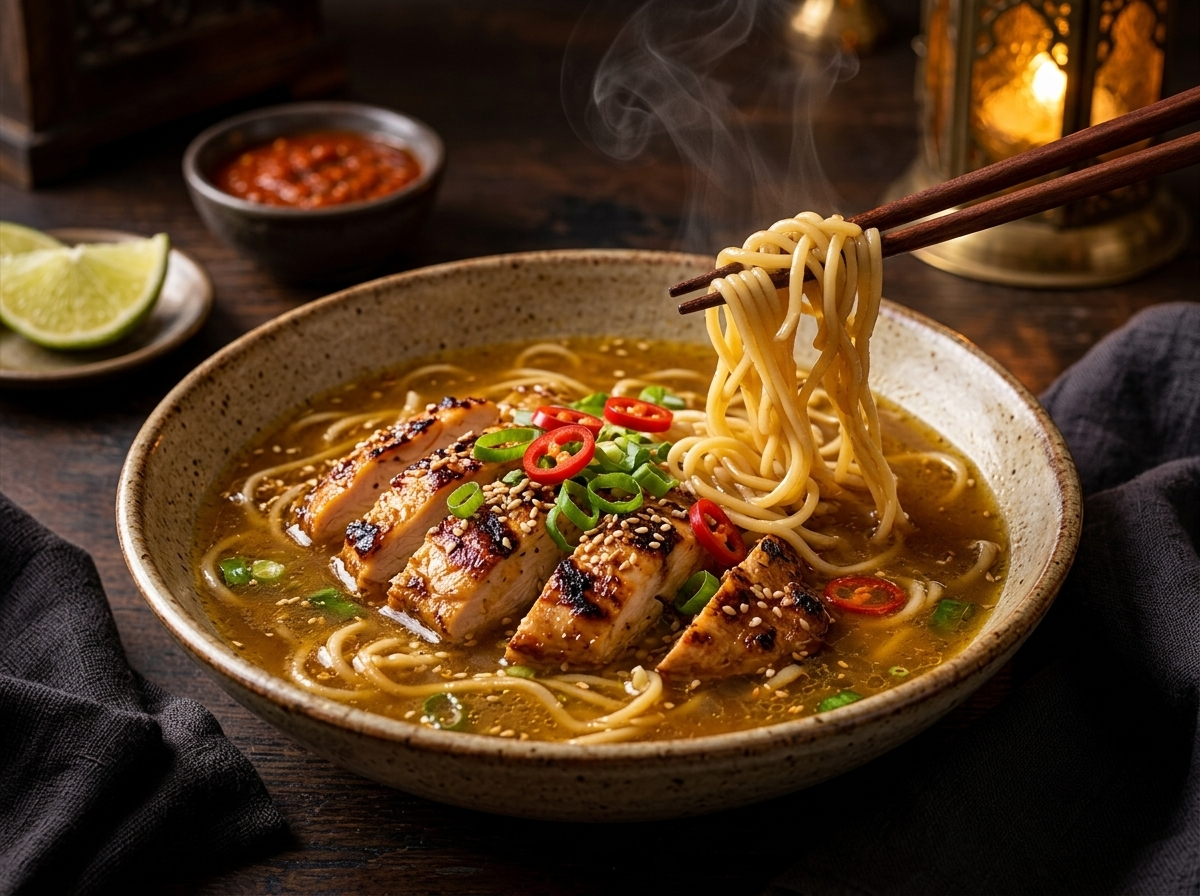
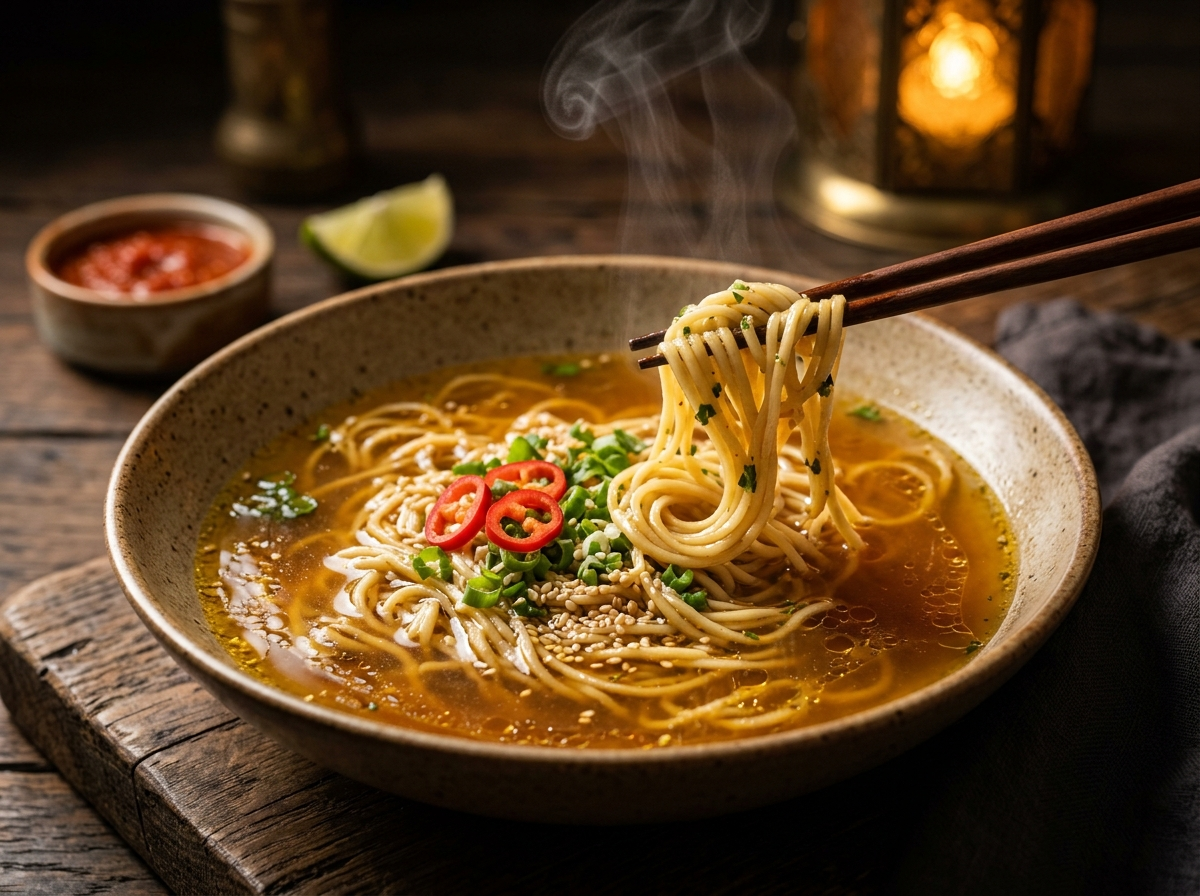
feat: update Mashwi Noodles Soup photo and copy to strictly show no visible chicken meat

diff --git a/index.html b/index.html
@@ -186,21 +186,21 @@
                         <div class="menu-grid-card" style="max-width: 440px; width: 100%;">
                             <div class="card-img-wrapper" style="position: relative; overflow: hidden; height: 260px;">
                                 <span class="item-badge bestseller" style="background: #d9480f;"><i class="ri-fire-line"></i> Winter Bestseller • Special</span>
-                                <img src="assets/images/menu/chicken_mashwi_noodles_soup.jpg?v=4" alt="Mashwi Noodles Soup" class="menu-item-img" loading="lazy" decoding="async">
+                                <img src="assets/images/menu/chicken_mashwi_noodles_soup.jpg?v=5" alt="Mashwi Noodles Soup" class="menu-item-img" loading="lazy" decoding="async">
                             </div>
                             <div class="card-body">
                                 <h4>Mashwi Noodles Soup</h4>
-                                <p>Savor the rich, smoky goodness of Mashwi chicken and noodles in our hearty signature broth! Loaded with tender slow flame roasted chicken cuts, noodles, chili rings and fresh spring onions.</p>
+                                <p>Savor the rich, smoky goodness of signature Mashwi broth and tender noodles! Piping hot soup infused with aromatic spices, red chili rings, and fresh spring onions.</p>
                                 <div class="card-tags">
                                     <span class="mini-tag">Signature Broth</span>
-                                    <span class="mini-tag">Mashwi Chicken Cuts</span>
                                     <span class="mini-tag">Tender Noodles</span>
+                                    <span class="mini-tag">Smoky Flavor</span>
                                 </div>
                             </div>
                             <div class="price-row justify-center">
                                 <span class="price">Rs. 250</span>
                                 <div class="card-action-btns">
-                                    <button type="button" class="customize-btn" data-name="Mashwi Noodles Soup" data-price="250" data-img="assets/images/menu/chicken_mashwi_noodles_soup.jpg?v=4" data-desc="Savor the rich, smoky goodness of Mashwi chicken and noodles in our hearty signature broth!"><i class="ri-equalizer-line"></i> Add-ons</button>
+                                    <button type="button" class="customize-btn" data-name="Mashwi Noodles Soup" data-price="250" data-img="assets/images/menu/chicken_mashwi_noodles_soup.jpg?v=5" data-desc="Savor the rich, smoky goodness of signature Mashwi broth and tender noodles!"><i class="ri-equalizer-line"></i> Add-ons</button>
                                     <button type="button" class="add-to-cart-btn" data-name="Mashwi Noodles Soup" data-price="250"><i class="ri-add-line"></i> Add</button>
                                 </div>
                             </div>
@@ -1300,16 +1300,16 @@
             
             <div class="welcome-modal-banner" style="height: 240px; background: #201e1b; display: flex; align-items: center; justify-content: center; overflow: hidden;">
                 <span class="welcome-badge-pill"><i class="ri-fire-fill"></i> Winter Special • Rs. 250 ❄</span>
-                <img src="assets/images/menu/chicken_mashwi_noodles_soup.jpg?v=4" alt="Mashwi Noodles Soup" class="welcome-modal-hero-img" style="width: 100%; height: 100%; object-fit: cover;" loading="eager" decoding="async">
+                <img src="assets/images/menu/chicken_mashwi_noodles_soup.jpg?v=5" alt="Mashwi Noodles Soup" class="welcome-modal-hero-img" style="width: 100%; height: 100%; object-fit: cover;" loading="eager" decoding="async">
             </div>
 
             <div class="welcome-modal-body">
                 <h3 id="welcome-modal-title">Mashwi Noodles Soup • Rs. 250 🍲</h3>
-                <p>Savor the rich, smoky goodness of Mashwi chicken and noodles in our hearty signature broth! Barkat Market mein visit karein ya foran WhatsApp par order karein.</p>
+                <p>Savor the rich, smoky goodness of signature Mashwi broth and tender noodles in our hearty winter soup! Barkat Market mein visit karein ya foran WhatsApp par order karein.</p>
                 
                 <div class="welcome-modal-features">
-                    <div class="welcome-feat-chip"><i class="ri-temp-hot-line"></i> Hearty Broth</div>
-                    <div class="welcome-feat-chip"><i class="ri-fire-line"></i> Mashwi Chicken</div>
+                    <div class="welcome-feat-chip"><i class="ri-temp-hot-line"></i> Signature Broth</div>
+                    <div class="welcome-feat-chip"><i class="ri-fire-line"></i> Smoky Spices</div>
                     <div class="welcome-feat-chip"><i class="ri-bowl-line"></i> Tender Noodles</div>
                 </div>
 
